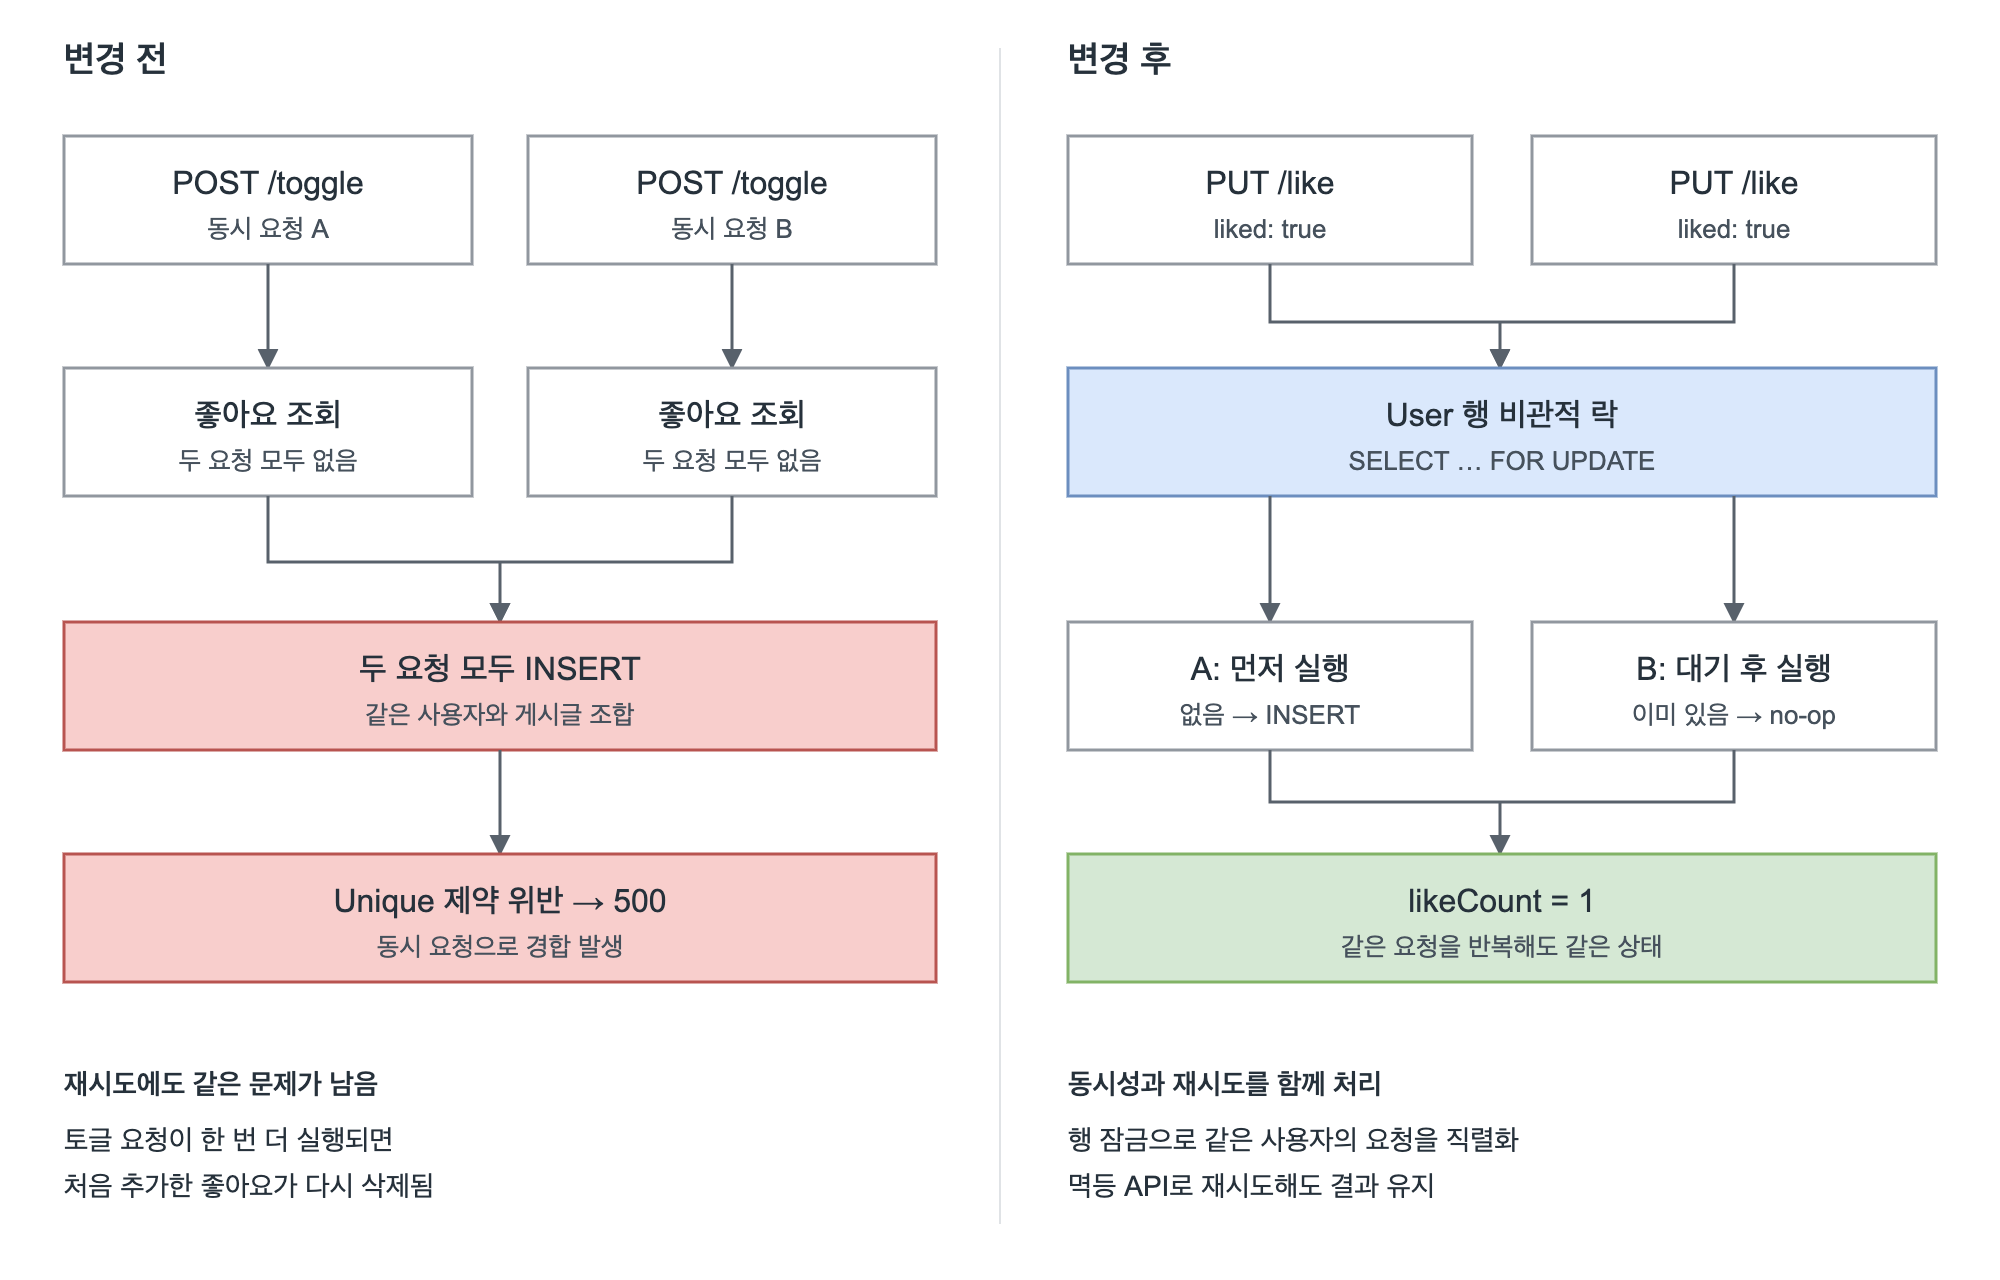
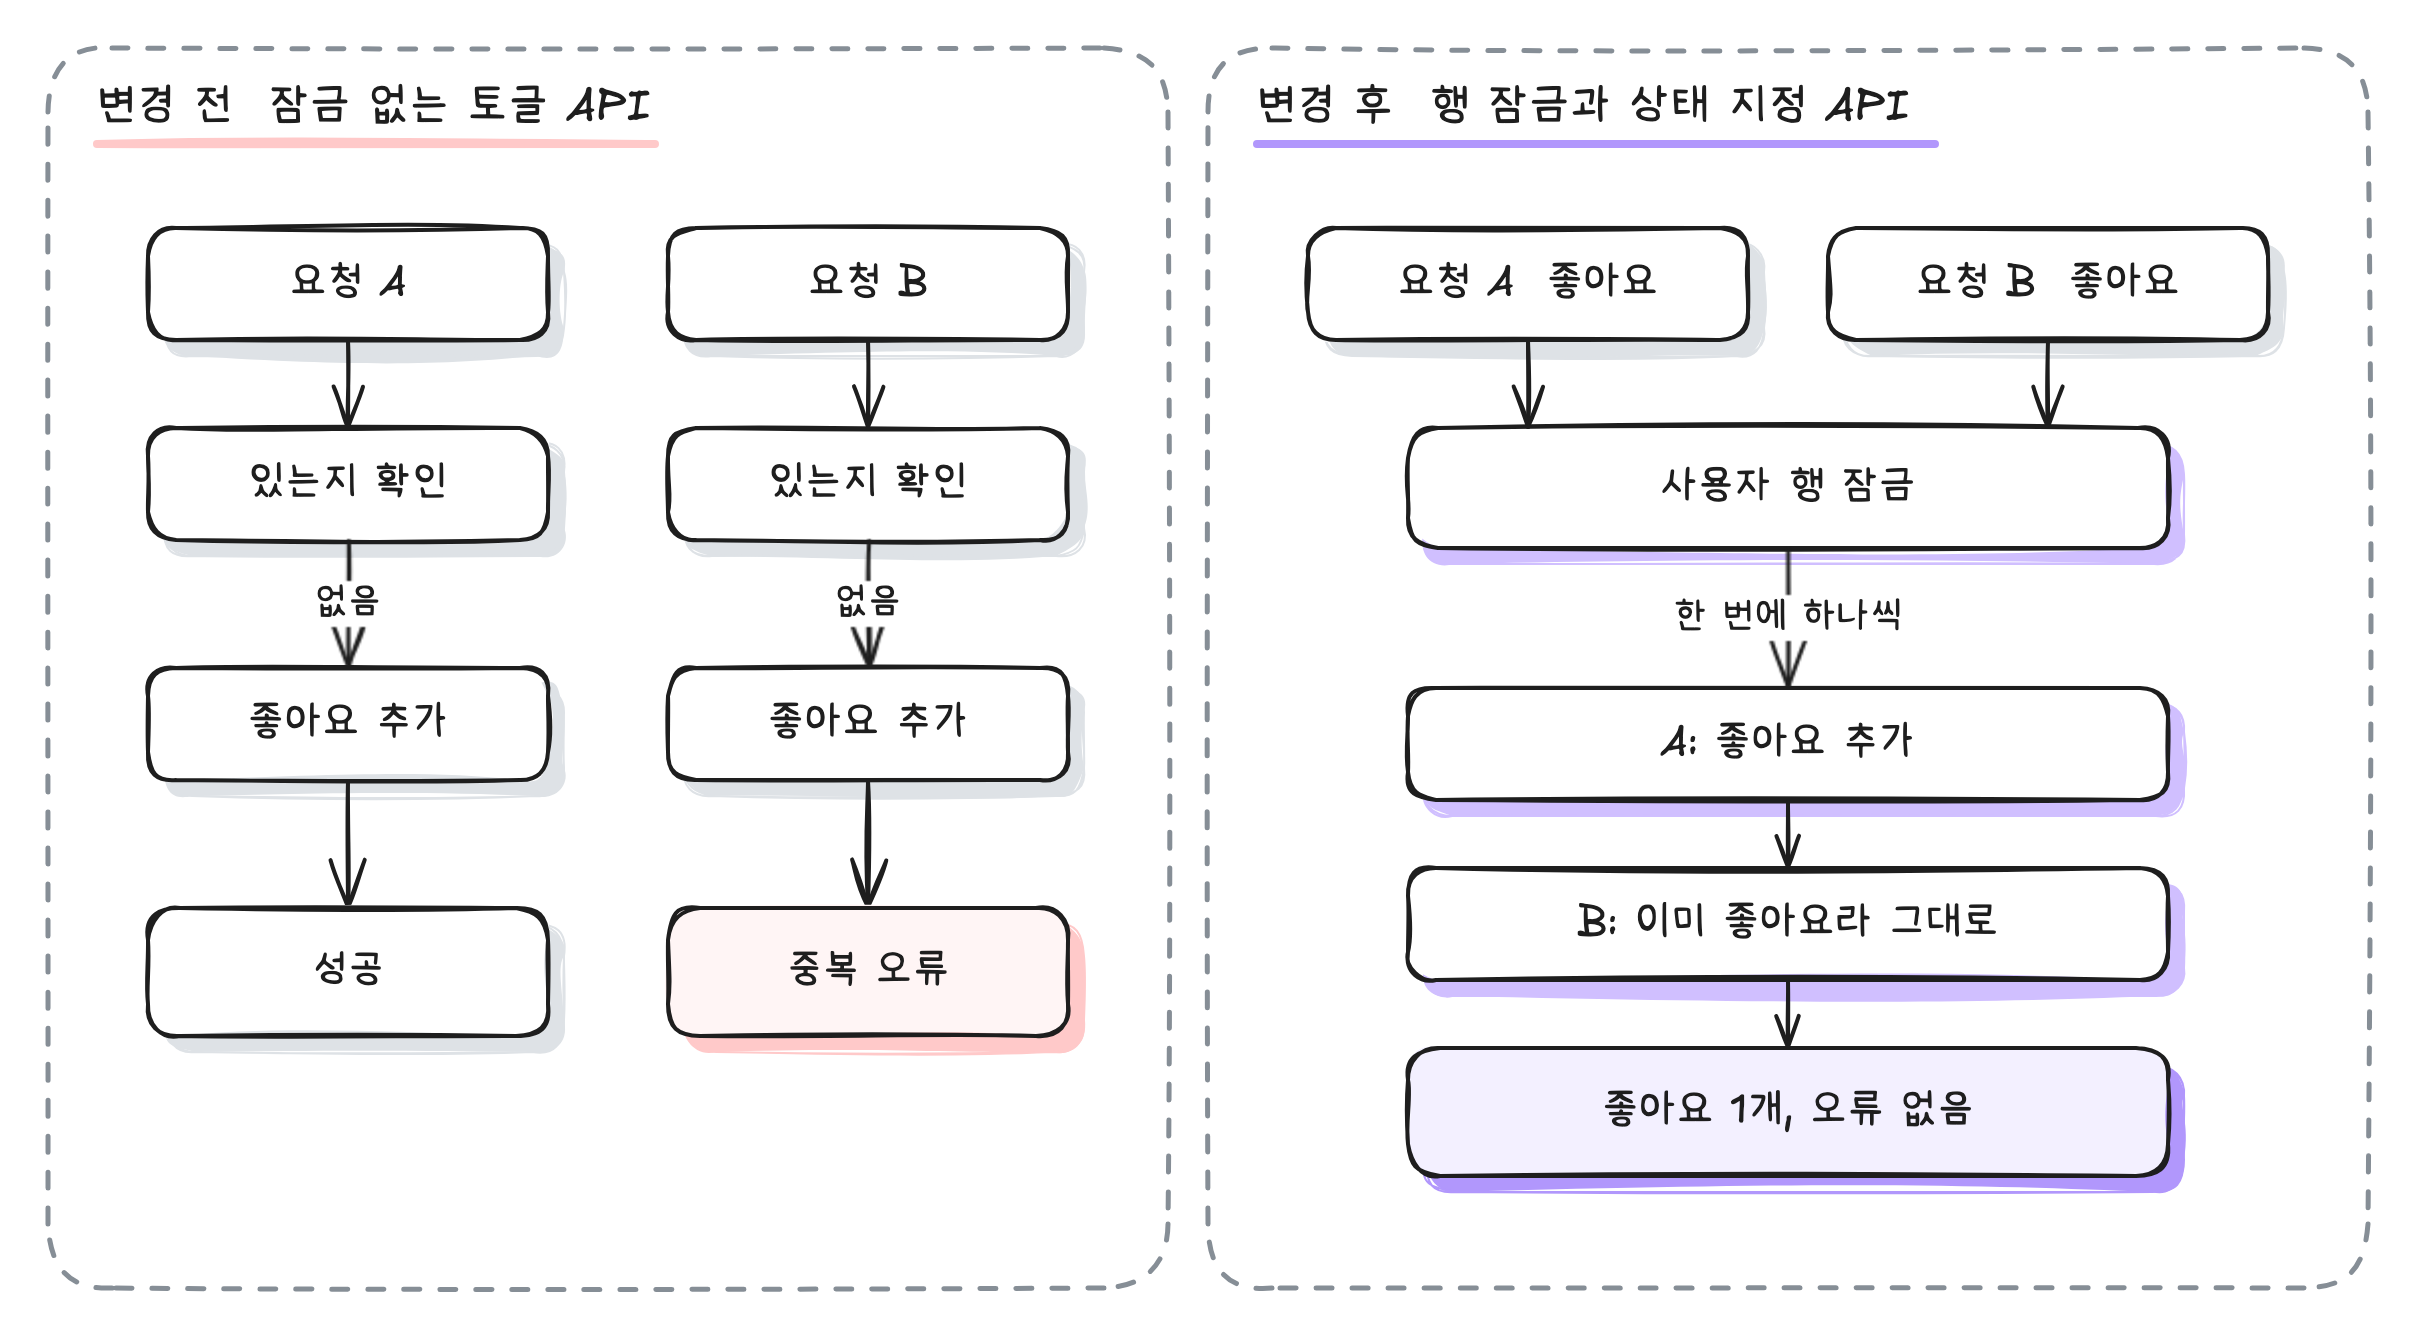
Add measured before and after results to concurrent likes case

diff --git a/index.html b/index.html
@@ -165,42 +165,42 @@
         </div>
       </article>
 <article class="case" id="case-like" aria-labelledby="case-title-4">
-  <div class="case-top"><span class="case-no">04</span><span class="proj">Layer Archive</span><span class="case-context">동시성 / 멱등성</span></div>
+  <div class="case-top"><span class="case-no">04</span><span class="proj">Layer Archive</span><span class="case-context">동시성 / 멱등성 / 2026.07</span></div>
   <h3 id="case-title-4">동시 요청과 재시도로 발생한 좋아요 오류 해결</h3>
-  <p class="case-deck">동시에 들어오는 좋아요 요청의 경합은 행 잠금으로, 재시도할 때 생기는 상태 변화는 멱등 PUT API로 해결했습니다.</p>
+  <p class="case-deck">같은 사용자의 요청이 동시에 들어오면 실패하던 좋아요를 행 잠금으로 순서대로 처리하고, 재시도해도 결과가 같은 API로 바꿨습니다.</p>
   <figure>
-    <div class="figure-heading"><p class="figure-title">요청 흐름 (변경 전 / 후)</p><a href="assets/diagrams/concurrent-likes.png" data-diagram aria-label="요청 흐름 (변경 전 / 후) 크게 보기">크게 보기 ↗</a></div>
-    <a class="diagram-link" href="assets/diagrams/concurrent-likes.png" data-diagram aria-label="요청 흐름 (변경 전 / 후) 이미지 확대"><img class="diagram-image" src="assets/diagrams/concurrent-likes.png" width="2000" height="1280" alt="변경 전에는 동시 토글 요청이 둘 다 좋아요 없음을 확인하고 INSERT해 unique 위반 500이 나고, 변경 후에는 User 행 잠금으로 직렬화되고 PUT liked=true가 멱등하게 처리된다" loading="lazy" decoding="async"></a>
-
+    <div class="figure-heading"><p class="figure-title">동시 요청 처리 변경 전후</p><a href="assets/diagrams/concurrent-likes.png" data-diagram aria-label="동시 요청 처리 변경 전후 크게 보기">크게 보기 ↗</a></div>
+    <a class="diagram-link" href="assets/diagrams/concurrent-likes.png" data-diagram aria-label="동시 요청 처리 변경 전후 이미지 확대"><img class="diagram-image" src="assets/diagrams/concurrent-likes.png" width="2416" height="1336" alt="변경 전에는 요청 A와 B가 동시에 좋아요가 있는지 확인해 둘 다 없음으로 읽고, 둘 다 좋아요를 추가해 한쪽은 성공하고 다른 쪽은 중복 오류가 난다. 변경 후에는 두 요청이 사용자 행 잠금을 거쳐 하나씩 처리되고, A가 좋아요를 추가한 뒤 B는 이미 좋아요라 그대로 두어 좋아요 1개, 오류 없음으로 끝난다" loading="lazy" decoding="async"></a>
   </figure>
   <div class="psr">
-          <div>
-            <p class="label">문제 원인</p>
-            <ul>
-              <li>"좋아요 존재 여부 확인 → INSERT/DELETE" 사이에 경합이 있어, 같은 사용자의 <b>동시 요청 5개만으로 unique 제약 위반 500</b>이 재현됐습니다.</li>
-              <li>토글(현재 상태 반전) API는 멱등하지 않아, 응답이 늦어 사용자가 재시도하면 두 번째 요청이 첫 요청이 추가한 좋아요를 삭제했습니다.</li>
-              <li>클라이언트의 재조회와 지연 재확인 같은 타이밍 기반 완화는 서버 처리가 길어지면 다시 잘못된 재시도를 유도했고, Codex 코드 리뷰에서도 같은 결함이 반복 지적됐습니다.</li>
-            </ul>
-          </div>
-          <div>
-            <p class="label">해결 과정</p>
-            <ul>
-              <li>좋아요 삽입을 <code>REQUIRES_NEW</code>로 분리하던 방식을 걷어내고 같은 트랜잭션에서 처리해, 요청이 실패해도 절반만 반영된 상태가 남지 않게 했습니다.</li>
-              <li><code>UserRepository.findByIdForUpdate()</code>로 요청 사용자 행에 비관적 락을 걸어 같은 사용자의 좋아요 요청을 직렬화했습니다. 상점 구매와 보상 회수에서 쓰던 패턴과 맞췄습니다.</li>
-              <li>POST 토글을 <code>PUT /like {"liked": true|false}</code> "원하는 최종 상태 지정" API로 재설계하고, <code>setLiked()</code>는 현재 상태와 같으면 아무것도 하지 않도록 했습니다.</li>
-              <li>실제 Postgres에 동시 요청을 라운드 단위로 반복 전송해 검증하고, 멱등성 통합 테스트를 추가했습니다.</li>
-            </ul>
-          </div>
-          <div class="result">
-            <p class="label">결과</p>
-            <ul>
-              <li>락 도입 후 동일 세션 <b>10개 동시 요청 × 5라운드(50건) 전부 200 성공</b></li>
-              <li>같은 <code>liked=true</code>를 10개 동시 × 3라운드 보내도 <b>likeCount가 항상 1로 수렴</b></li>
-              <li>재시도가 항상 안전해져 프론트의 재조회와 지연 재확인 헬퍼를 삭제하고 클라이언트 로직을 단순화</li>
-            </ul>
-          </div>
-        </div>
-      </article>
+    <div>
+      <p class="label">문제 원인</p>
+      <ul>
+        <li>좋아요는 "있는지 확인한 뒤 추가하거나 지우는" 두 단계로 처리됐습니다. 같은 사용자의 요청이 동시에 들어오면 둘 다 "없음"으로 읽고 함께 추가하려다 중복 제약에 걸렸습니다.</li>
+        <li>API가 현재 상태를 뒤집는 토글 방식이라, 응답이 늦어 사용자가 다시 누르면 두 번째 요청이 방금 누른 좋아요를 지웠습니다.</li>
+        <li>처음에는 추가만 별도 트랜잭션으로 떼어 오류를 흡수했지만, 그러면 API는 실패를 돌려주는데 좋아요는 남는 불일치가 생길 수 있었습니다.</li>
+      </ul>
+    </div>
+    <div>
+      <p class="label">해결 과정</p>
+      <ul>
+        <li>별도 트랜잭션을 없애고 한 트랜잭션에서 처리해, 실패하면 전부 되돌아가게 했습니다.</li>
+        <li>요청한 사용자의 행에 잠금을 걸어(SELECT … FOR UPDATE) 같은 사용자의 좋아요 요청이 한 번에 하나씩 처리되게 했습니다. 상점 구매에서 쓰던 방식과 맞췄습니다.</li>
+        <li>토글 API를 <b>원하는 최종 상태를 지정하는 API</b>(PUT, liked: true 또는 false)로 바꿨습니다. 이미 같은 상태면 아무것도 바꾸지 않아, 몇 번을 보내도 결과가 같습니다.</li>
+        <li>바뀐 단계마다의 커밋을 같은 조건으로 다시 실행해, 동시 요청과 재시도 결과를 비교했습니다.</li>
+      </ul>
+    </div>
+    <div class="result">
+      <p class="label">결과</p>
+      <ul>
+        <li>같은 사용자의 좋아요 요청 5개를 동시에 50번 보냈을 때 실패 <b>250건 중 200건 → 0건</b> (잠금 적용 전후)</li>
+        <li>좋아요를 누른 뒤 같은 요청을 다시 보냈을 때 좋아요가 남은 비율 <b>0% → 100%</b> (토글 API와 상태 지정 API, 50번)</li>
+        <li>재시도가 항상 안전해져 화면의 재조회와 지연 재확인 로직을 지우고 단순하게 정리</li>
+        <li>측정 환경은 PostgreSQL 16이며, 요청마다 별도 트랜잭션으로 서비스를 호출했습니다</li>
+      </ul>
+    </div>
+  </div>
+</article>
 <article class="case" id="case-list-query" aria-labelledby="case-title-5">
   <div class="case-top"><span class="case-no">05</span><span class="proj">Layer Archive</span><span class="case-context">조회 성능 / 2026.07</span></div>
   <h3 id="case-title-5">게시글마다 이미지를 따로 불러오던 목록 조회 개선</h3>

diff --git a/scripts/excalidraw/concurrent-likes.py b/scripts/excalidraw/concurrent-likes.py
@@ -1,0 +1,38 @@
+import json
+E=[]; INK='#1e1e1e'
+PINK='#ffc9c9'; LAV='#d0bfff'; LAV2='#b197fc'; LAVF='#f3f0ff'; GRAY='#dee2e6'
+def text(i,x,y,t,fs=22): E.append({"type":"text","id":i,"x":x,"y":y,"text":t,"fontSize":fs,"strokeColor":INK})
+def uline(i,x,y,w,c): E.append({"type":"arrow","id":i,"x":x,"y":y,"width":w,"height":0,"points":[[0,0],[w,0]],"strokeColor":c,"strokeWidth":4,"endArrowhead":None})
+def frame(i,x,y,w,h): E.append({"type":"rectangle","id":i,"x":x,"y":y,"width":w,"height":h,"strokeColor":"#868e96","strokeWidth":2,"strokeStyle":"dashed","roundness":{"type":3}})
+def box(i,x,y,w,h,label,shadow,fill='#ffffff',fs=20):
+    E.append({"type":"rectangle","id":i+"s","x":x+8,"y":y+8,"width":w,"height":h,"backgroundColor":shadow,"fillStyle":"solid","strokeColor":shadow,"strokeWidth":1,"roundness":{"type":3}})
+    E.append({"type":"rectangle","id":i,"x":x,"y":y,"width":w,"height":h,"backgroundColor":fill,"fillStyle":"solid","strokeColor":INK,"strokeWidth":2,"roundness":{"type":3},"label":{"text":label,"fontSize":fs}})
+def arrow(i,x,y,pts,label=None):
+    d={"type":"arrow","id":i,"x":x,"y":y,"width":pts[-1][0],"height":pts[-1][1],"points":pts,"strokeColor":INK,"strokeWidth":2,"endArrowhead":"arrow"}
+    if label: d["label"]={"text":label,"fontSize":18}
+    E.append(d)
+# before
+frame('fl',20,20,560,620); text('tl',44,36,'변경 전  잠금 없는 토글 API'); uline('ul',44,68,280,PINK)
+for k,x in (('a',70),('b',330)):
+    cx=x+100
+    box('r'+k,x,110,200,56,'요청 '+k.upper(),GRAY)
+    arrow('ar'+k,cx,166,[[0,0],[0,44]])
+    box('c'+k,x,210,200,56,'있는지 확인',GRAY)
+    arrow('ac'+k,cx,266,[[0,0],[0,64]],label='없음')
+    box('i'+k,x,330,200,56,'좋아요 추가',GRAY)
+    arrow('ai'+k,cx,386,[[0,0],[0,64]])
+box('oa',70,450,200,64,'성공',GRAY)
+box('ob',330,450,200,64,'중복 오류',PINK,fill='#fff5f5')
+# after
+frame('fr',600,20,580,620); text('tr',624,36,'변경 후  행 잠금과 상태 지정 API'); uline('ur',624,68,340,LAV2)
+box('sa',650,110,220,56,'요청 A  좋아요',GRAY)
+box('sb',910,110,220,56,'요청 B  좋아요',GRAY)
+arrow('asa',760,166,[[0,0],[0,44]]); arrow('asb',1020,166,[[0,0],[0,44]])
+box('lk',700,210,380,60,'사용자 행 잠금',LAV)
+arrow('alk',890,270,[[0,0],[0,70]],label='한 번에 하나씩')
+box('pa',700,340,380,56,'A: 좋아요 추가',LAV)
+arrow('apa',890,396,[[0,0],[0,34]])
+box('pb',700,430,380,56,'B: 이미 좋아요라 그대로',LAV)
+arrow('apb',890,486,[[0,0],[0,34]])
+box('rs',700,520,380,64,'좋아요 1개, 오류 없음',LAV2,fill=LAVF)
+print(json.dumps(E,ensure_ascii=False,separators=(',',':')))
